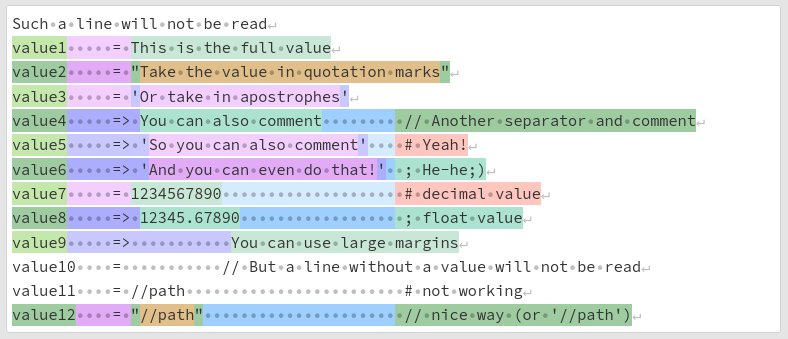
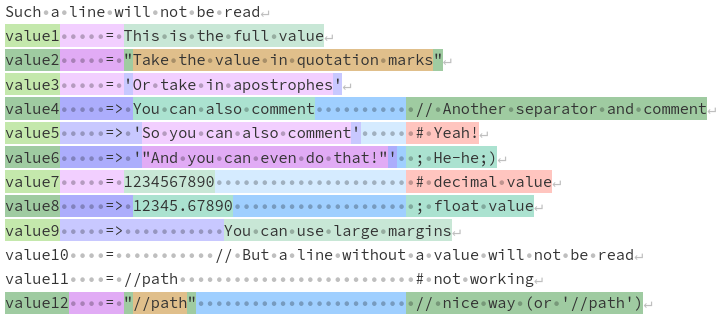
v0.1.0

diff --git a/README.md b/README.md
@@ -2,23 +2,11 @@
 
 Singleton for reading the configuration file required for your program.
 
-The `settings.conf` file:
+## Quick start
 
-```conf
-Such a line will not be read
-value1     = This is the full value
-value2     = "Take the value in quotation marks"
-value3     = 'Or take in apostrophes'
-value4     => You can also comment         // Another separator and comment
-value5     => 'So you can also comment'    # Yeah!
-value6     => 'And you can even do that!'  ; He-he;)
-value7     = 1234567890                    # decimal value
-value8     => 12345.67890                  ; float value
-value9     =>           You can use large margins
-value10    =           // But a line without a value will not be read
-value11    = //path                        # not working
-value12    = "//path"                      // nice way (or '//path')
-```
+The `settings.conf` file (see the [tests](tests/)):
+
+![matches.png](img/matches.png)
 
 Read `settings.conf` file:
 
@@ -32,23 +20,12 @@ void main()
 
     foreach (key, param; Config.file.keys())
         writefln("%s => %s", key, param);
-    
-    int val7Int     = Config.file.key("value7").toInt;
-    float val8Float = Config.file.key("value8").toFloat;
-    // Return default value as 0
-    int val8Int     = Config.file.key("value8").toInt;
-    float val5Float = Config.file.key("value9").toFloat;
 
-    writefln(
-        "val7Int = %s; val8Float = %s; val8Int = %s; val5Float = %s;",
-        val7Int, val8Float, val8Int, val5Float
-    );
+    writeln(Config.file.key("value1"));
 }
 ```
 
 Result:
-
-![matches.png](img/matches.png)
 
 ```
 value1 => This is the full value
@@ -56,10 +33,10 @@ value2 => Take the value in quotation marks
 value3 => Or take in apostrophes
 value4 => You can also comment
 value5 => So you can also comment
-value6 => And you can even do that!
+value6 => 
 value7 => 1234567890
 value8 => 12345.67890
 value9 => You can use large margins
 value12 => //path
-val7Int = 1234567890; val8Float = 12345.7; val8Int = 0; val5Float = 0;
+This is the full value
 ```
